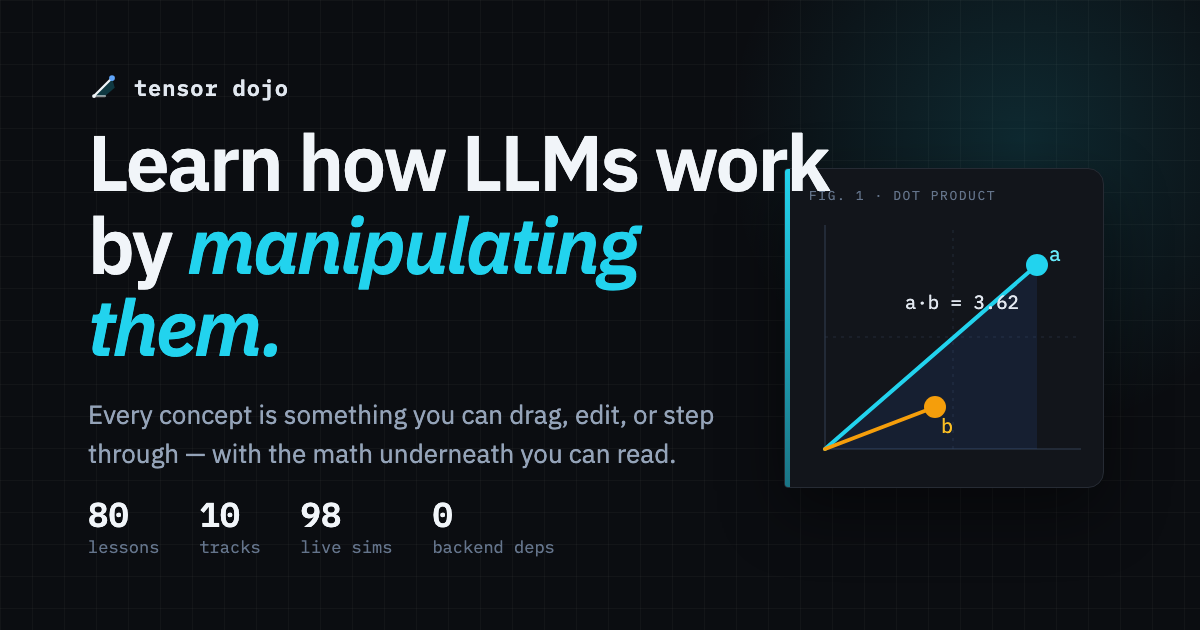
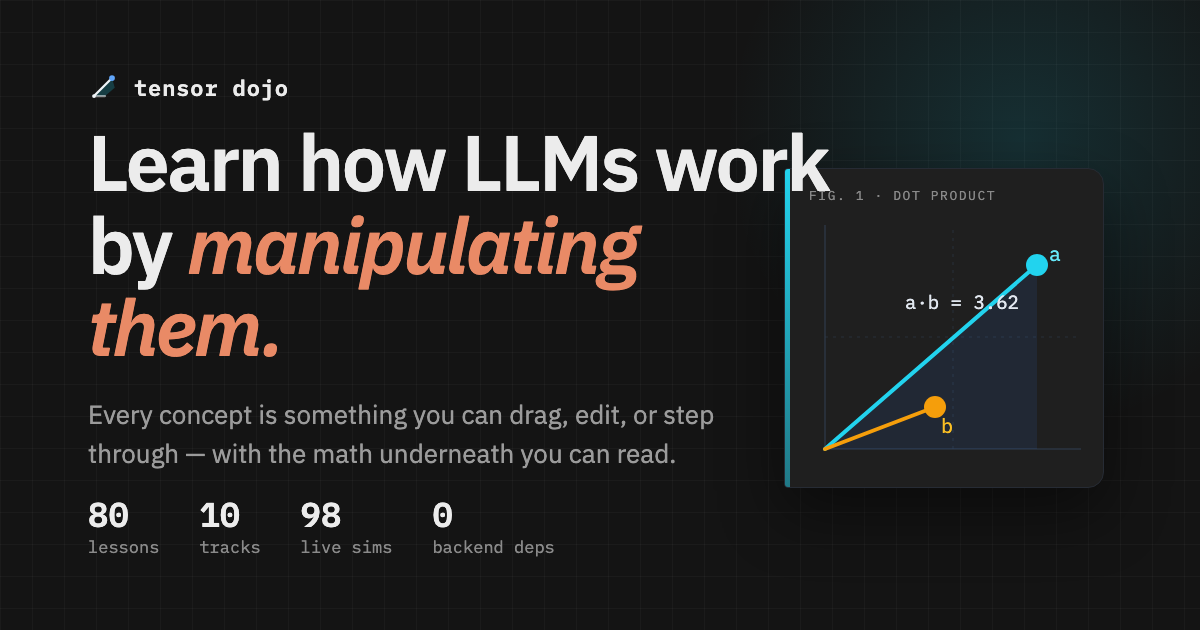
feat(theme): coral-on-charcoal palette from reference, eye-strain passes
- dark face: #141414 charcoal canvas, #1f1f1f/#2e2e2e panels, #ececec
  soft-white text, grey chrome, coral #e98a66 as the single signal
  accent (vectors, lives, tabs, CTAs, progress, links)
- light face: warm paper #f7f4f0 with terracotta #b0542e signal so
  small text and fills keep >=4.5:1 without glare
- theme-color metas synced (#141414 / #f7f4f0); OG card regenerated
  in charcoal + coral
- eye strain: 18px/1.75 prose capped at 68ch, --fg-subtle lifted past
  4.5:1 on both faces, color-scheme per root, hero auto-cycle gains a
  stop/resume toggle (hidden under reduced motion)
- print stylesheet: chrome/nav/canvas hidden, black-on-paper prose,
  cards and figures kept unsplit; share cluster + complete bar no-print
- e2e: directory filter persists to ?status= and hydrates on load

diff --git a/artifacts/tensor-dojo/src/index.css b/artifacts/tensor-dojo/src/index.css
@@ -40,6 +40,7 @@
    =========================================================================== */
 
 :root {
+  color-scheme: light;
   /* Typefaces — Plex Sans for prose/display, Plex Mono for every
      label, readout, and figure number. Display is sans-semibold
      tight-tracked (the instrument voice replaced the serif). */
@@ -53,27 +54,27 @@
 
   /* Surface tiers: canvas → raised (cards) → sunken (wells, inputs)
      → overlay (menus, toasts). */
-  --bg: 245 245 244;              /* manual paper (stone-100) */
-  --bg-elevated: 252 252 251;     /* raised card */
-  --bg-code: 231 229 228;         /* sunken well */
-  --overlay: 255 255 255;
+  --bg: 247 244 240;              /* warm paper manual face */
+  --bg-elevated: 252 250 247;     /* raised card */
+  --bg-code: 238 234 229;         /* sunken well */
+  --overlay: 255 253 250;
 
-  --fg: 23 23 23;
-  --fg-prose: 41 41 41;
-  --fg-muted: 82 82 82;
-  --fg-subtle: 115 115 115;
+  --fg: 42 38 35;                 /* warm charcoal, never pure black */
+  --fg-prose: 62 57 53;
+  --fg-muted: 100 95 90;
+  --fg-subtle: 112 106 100;      /* >=4.5:1 for 10-11px mono labels */
 
-  --border: 214 214 214;
-  --border-strong: 168 168 168;
+  --border: 222 216 209;
+  --border-strong: 186 178 169;
 
-  --accent: 23 23 23;             /* the ink itself; ~15:1 on --bg */
-  --accent-hover: 64 64 64;       /* neutral lift on hover */
-  --accent-fg: 245 245 244;       /* paper on ink fills */
-  --accent-2: 23 23 23;           /* same mono voice for nav/progress */
-  --accent-2-hover: 64 64 64;
-  --accent-2-fg: 245 245 244;     /* paper on ink fills */
+  --accent: 176 84 46;            /* terracotta signal; ~5:1 on --bg */
+  --accent-hover: 150 68 36;      /* deeper terracotta on hover */
+  --accent-fg: 255 251 247;       /* paper on terracotta fills */
+  --accent-2: 176 84 46;          /* same voice for nav/progress */
+  --accent-2-hover: 150 68 36;
+  --accent-2-fg: 255 251 247;     /* paper on terracotta fills */
 
-  --grid: 228 228 227;
+  --grid: 232 227 220;
   --positive: 21 128 61;
   --negative: 185 28 28;
   --warning: 180 83 9;
@@ -83,14 +84,14 @@
   --series-3: 124 58 237;
   --series-4: 190 24 93;          /* pink-600 — clear of cyan + blue */
 
-  --accent-soft: rgba(23, 23, 23, 0.10);
-  --accent-faint: rgba(23, 23, 23, 0.06);
-  --accent-dim: rgba(23, 23, 23, 0.35);
-  --accent-2-soft: rgba(23, 23, 23, 0.10);
-  --accent-2-faint: rgba(23, 23, 23, 0.06);
+  --accent-soft: rgba(176, 84, 46, 0.10);
+  --accent-faint: rgba(176, 84, 46, 0.06);
+  --accent-dim: rgba(176, 84, 46, 0.35);
+  --accent-2-soft: rgba(176, 84, 46, 0.10);
+  --accent-2-faint: rgba(176, 84, 46, 0.06);
 
-  --bg-elevated-hover: 245 245 244;
-  --accent-shadow: rgba(23, 23, 23, 0.20);
+  --bg-elevated-hover: 245 241 236;
+  --accent-shadow: rgba(176, 84, 46, 0.20);
 
   --negative-bg: rgba(185, 28, 28, 0.7);
   --shadow-inset: inset 0 1px 0 rgba(255, 255, 255, 0.7);
@@ -103,7 +104,7 @@
     0 2px 4px rgba(23, 23, 23, 0.10),
     0 8px 24px rgba(23, 23, 23, 0.14);
 
-  --cell-halo: 245 245 244;
+  --cell-halo: 252 250 247;
 
   /* Categorical track palette (concept map columns, cross-track arcs,
      legend dots). Ten hues tuned per theme: saturated-enough to tell
@@ -127,35 +128,36 @@
   --dur-slow: 480ms;
 
   /* Code blocks invert: a bench screen inside the manual. */
-  --code-block-bg: 11 13 17;
-  --code-block-fg: 226 232 240;
-  --code-block-border: 38 43 52;
+  --code-block-bg: 26 24 22;
+  --code-block-fg: 236 230 224;
+  --code-block-border: 52 48 44;
 }
 
 :root.dark {
+  color-scheme: dark;
   /* The bench: near-black blue ink, hairline drafting grid, paper
      mono signal for anything you can move or have completed. */
-  --bg: 11 13 17;
-  --bg-elevated: 18 21 27;
-  --bg-code: 6 8 10;
-  --overlay: 26 30 38;
+  --bg: 20 20 20;                 /* reference charcoal */
+  --bg-elevated: 31 31 31;
+  --bg-code: 16 16 16;
+  --overlay: 46 46 46;
 
-  --fg: 232 235 238;
-  --fg-prose: 205 210 216;
-  --fg-muted: 154 161 170;
-  --fg-subtle: 120 127 136;
+  --fg: 236 236 236;              /* soft white, never pure white */
+  --fg-prose: 214 214 214;
+  --fg-muted: 155 155 155;
+  --fg-subtle: 138 138 138;      /* >=4.5:1 for 10-11px mono labels */
 
-  --border: 38 43 52;
-  --border-strong: 62 69 80;
+  --border: 45 45 45;
+  --border-strong: 72 72 72;
 
-  --accent: 245 245 244;          /* paper on the bench; ~15:1 on --bg */
-  --accent-hover: 212 212 212;    /* neutral dip on hover */
-  --accent-fg: 11 13 17;          /* ink on paper fills */
-  --accent-2: 245 245 244;        /* same mono voice for nav/progress */
-  --accent-2-hover: 212 212 212;
-  --accent-2-fg: 11 13 17;        /* ink on paper fills */
+  --accent: 233 138 102;          /* coral signal; ~6:1 on --bg */
+  --accent-hover: 240 163 130;    /* lighter coral on hover */
+  --accent-fg: 24 20 18;          /* charcoal on coral fills */
+  --accent-2: 233 138 102;        /* same voice for nav/progress */
+  --accent-2-hover: 240 163 130;
+  --accent-2-fg: 24 20 18;        /* charcoal on coral fills */
 
-  --grid: 30 34 42;
+  --grid: 32 32 32;
   --positive: 74 222 128;
   --negative: 248 113 113;
   --warning: 251 191 36;
@@ -165,14 +167,14 @@
   --series-3: 167 139 250;
   --series-4: 244 114 182;
 
-  --accent-soft: rgba(245, 245, 244, 0.14);
-  --accent-faint: rgba(245, 245, 244, 0.08);
-  --accent-dim: rgba(245, 245, 244, 0.32);
-  --accent-2-soft: rgba(245, 245, 244, 0.14);
-  --accent-2-faint: rgba(245, 245, 244, 0.08);
+  --accent-soft: rgba(233, 138, 102, 0.14);
+  --accent-faint: rgba(233, 138, 102, 0.08);
+  --accent-dim: rgba(233, 138, 102, 0.40);
+  --accent-2-soft: rgba(233, 138, 102, 0.14);
+  --accent-2-faint: rgba(233, 138, 102, 0.08);
 
-  --bg-elevated-hover: 24 28 35;
-  --accent-shadow: rgba(245, 245, 244, 0.18);
+  --bg-elevated-hover: 38 38 38;
+  --accent-shadow: rgba(233, 138, 102, 0.18);
 
   --negative-bg: rgba(248, 113, 113, 0.7);
   --shadow-inset: inset 0 1px 0 rgba(255, 255, 255, 0.04);
@@ -184,7 +186,7 @@
     0 2px 4px rgba(0, 0, 0, 0.5),
     0 8px 24px rgba(0, 0, 0, 0.6);
 
-  --cell-halo: 11 13 17;
+  --cell-halo: 20 20 20;
 
   --track-1: 129 140 248;  /* indigo-400 */
   --track-2: 56 189 248;   /* sky-400 */
@@ -202,9 +204,9 @@
   --dur-base: 240ms;
   --dur-slow: 480ms;
 
-  --code-block-bg: 6 8 10;
-  --code-block-fg: 226 232 240;
-  --code-block-border: 38 43 52;
+  --code-block-bg: 14 14 14;
+  --code-block-fg: 232 226 220;
+  --code-block-border: 44 44 44;
 }
 
 /* Sticky header is two tiers on lesson routes (~84px). In-page anchors
@@ -529,8 +531,11 @@ html {
    =========================================================================== */
 .lesson-body {
   color: rgb(var(--fg-prose));
-  font-size: 1.0625rem;
-  line-height: 1.7;
+  /* Eye-strain budget: ~18px type, 1.75 leading, and a 68ch measure so
+     long lessons never stretch the eye across the column. */
+  font-size: 1.125rem;
+  line-height: 1.75;
+  max-width: 68ch;
 }
 .lesson-body > * + * {
   margin-top: 1.25rem;
@@ -1015,5 +1020,45 @@ details[open] > .summary-marker::before {
 @media (prefers-reduced-motion: reduce) {
   html {
     scroll-behavior: auto;
+  }
+}
+
+/* ===========================================================================
+   Print: the manual face on paper — prose and figures only, no chrome.
+   =========================================================================== */
+@media print {
+  header,
+  footer,
+  nav,
+  [role='application'],
+  .no-print {
+    display: none !important;
+  }
+  html,
+  body {
+    background: #fff !important;
+  }
+  * {
+    color: #000 !important;
+    box-shadow: none !important;
+    text-shadow: none !important;
+  }
+  main {
+    max-width: 100% !important;
+    padding: 0 !important;
+  }
+  .lesson-body {
+    font-size: 12pt;
+    line-height: 1.6;
+  }
+  .lesson-body a {
+    border-bottom: none;
+    text-decoration: underline;
+  }
+  /* Keep cards and figures from splitting across pages. */
+  li,
+  figure,
+  .bezel {
+    break-inside: avoid;
   }
 }

diff --git a/artifacts/tensor-dojo/src/components/home/HeroInteractive.tsx b/artifacts/tensor-dojo/src/components/home/HeroInteractive.tsx
@@ -79,12 +79,22 @@ const ROTATE_MS = 9000;
  */
 export function HeroInteractive() {
   const [index, setIndex] = useState(0);
-  // Reduced-motion readers get a static figure: the rotator never starts.
-  const [pinned, setPinned] = useState(() => {
+  // Reduced-motion readers get a static figure: the rotator never
+  // starts and the cycle toggle stays hidden.
+  const [reduced] = useState(() => {
     if (typeof window === 'undefined' || typeof window.matchMedia !== 'function') return false;
     return window.matchMedia('(prefers-reduced-motion: reduce)').matches;
   });
+  const [pinned, setPinned] = useState(reduced);
   const pinnedRef = useRef(pinned);
+
+  // Eyes get a rest button: stop/resume the auto-cycle without having
+  // to interact with the figure itself.
+  const toggleCycle = useCallback(() => {
+    const next = !pinnedRef.current;
+    pinnedRef.current = next;
+    setPinned(next);
+  }, []);
 
   const pin = useCallback(() => {
     if (!pinnedRef.current) {
@@ -154,13 +164,17 @@ export function HeroInteractive() {
             {f.tab}
           </button>
         ))}
-        {!pinned && (
-          <span
-            aria-hidden="true"
-            className="ml-auto hidden sm:block text-[10px] font-mono text-fg-subtle"
+        {!reduced && (
+          <button
+            type="button"
+            onClick={toggleCycle}
+            aria-pressed={pinned}
+            title={pinned ? 'Resume the figure rotation' : 'Stop the figure rotation'}
+            className="focus-ring ml-auto hidden sm:inline-flex items-baseline gap-1.5 text-[10px] font-mono text-fg-subtle transition-colors hover:text-ink"
           >
-            {pinned ? 'paused — yours to drag' : 'auto-cycling'}
-          </span>
+            <span aria-hidden="true">{pinned ? '▶' : '❚❚'}</span>
+            {pinned ? 'resume cycling' : 'stop cycling'}
+          </button>
         )}
       </div>
 

diff --git a/e2e/core.spec.ts b/e2e/core.spec.ts
@@ -68,3 +68,18 @@ test('activation lesson loads the assessment and feedback loop', async ({ page }
   await page.reload();
   await expect(page.getByText(/Mastered · 1 attempt/i)).toBeVisible();
 });
+
+test('lessons directory filter persists to the url and back', async ({ page }) => {
+  await page.goto('/lessons');
+  await page.getByRole('button', { name: /^Complete/ }).click();
+  await expect(page).toHaveURL(/status=done/);
+  await expect(page.getByText(/No lessons match this filter yet/)).toBeVisible();
+
+  await page.getByRole('button', { name: 'Show all lessons' }).click();
+  await expect(page).not.toHaveURL(/status=/);
+  await expect(page.getByRole('heading', { name: 'Foundations of similarity' })).toBeVisible();
+
+  // A filtered url hydrates the same view on a fresh load.
+  await page.goto('/lessons?status=new');
+  await expect(page.getByRole('button', { name: /^Not started/ })).toHaveAttribute('aria-pressed', 'true');
+});

diff --git a/artifacts/tensor-dojo/index.html b/artifacts/tensor-dojo/index.html
@@ -20,7 +20,7 @@
     <meta name="twitter:image" content="https://tensordojo.vercel.app/og.png" />
     <!-- Single tag; the bootstrap script below (and use-theme on
          toggle) keeps it in sync with the *app* theme, not the OS. -->
-    <meta name="theme-color" content="#0b0d11" />
+    <meta name="theme-color" content="#141414" />
     <link rel="icon" type="image/svg+xml" href="/favicon.svg" />
     <link rel="preconnect" href="https://fonts.googleapis.com" />
     <link rel="preconnect" href="https://fonts.gstatic.com" crossorigin="" />
@@ -39,7 +39,7 @@
       : ls ? ls === 'dark' : (sysKnown ? mq.matches : true);
     if (dark) document.documentElement.classList.add('dark');
     var tc = document.querySelector('meta[name="theme-color"]');
-    if (tc) tc.setAttribute('content', dark ? '#0b0d11' : '#f5f5f4');
+    if (tc) tc.setAttribute('content', dark ? '#141414' : '#f7f4f0');
   } catch (e) {}
 })();
     </script>

diff --git a/artifacts/tensor-dojo/src/components/lesson/LessonShell.tsx b/artifacts/tensor-dojo/src/components/lesson/LessonShell.tsx
@@ -100,7 +100,7 @@ export function LessonShell({
             360px row, so below sm the group stacks and the divider
             flips axis; no overflow-hidden, so focus rings stay
             visible. */}
-        <div className="mt-5 flex w-full sm:w-auto flex-col sm:flex-row items-stretch divide-y sm:divide-y-0 sm:divide-x divide-border border border-border rounded-sm bg-bg-elevated">
+        <div className="no-print mt-5 flex w-full sm:w-auto flex-col sm:flex-row items-stretch divide-y sm:divide-y-0 sm:divide-x divide-border border border-border rounded-sm bg-bg-elevated">
           <button
             type="button"
             onClick={copyLessonLink}

diff --git a/artifacts/tensor-dojo/src/components/lesson/LessonCompleteBar.tsx b/artifacts/tensor-dojo/src/components/lesson/LessonCompleteBar.tsx
@@ -56,7 +56,7 @@ export function LessonCompleteBar({ slug }: LessonCompleteBarProps) {
 
   if (!done) {
     return (
-      <div className="mt-12 flex flex-wrap items-center justify-between gap-4 rounded-lg border border-dashed border-border-strong px-5 py-4">
+      <div className="no-print mt-12 flex flex-wrap items-center justify-between gap-4 rounded-lg border border-dashed border-border-strong px-5 py-4">
         <p className="text-[13px] text-fg-muted">
           Finished this one? Mark it complete to track your way through the
           curriculum.

diff --git a/artifacts/tensor-dojo/src/lib/theme/use-theme.ts b/artifacts/tensor-dojo/src/lib/theme/use-theme.ts
@@ -59,7 +59,7 @@ function applyTheme(next: Theme): void {
   // Browser chrome / overscroll should follow the app theme, not the
   // OS preference the meta tag was born with.
   const tc = document.querySelector('meta[name="theme-color"]');
-  if (tc) tc.setAttribute('content', next === 'dark' ? '#0b0d11' : '#f5f5f4');
+  if (tc) tc.setAttribute('content', next === 'dark' ? '#141414' : '#f7f4f0');
   // Two RAFs: the first lets the class change paint, the second
   // lets the browser apply the new token values; only then do we
   // re-enable transitions.

diff --git a/README.md b/README.md
@@ -357,8 +357,8 @@ config as `rgb(var(--token) / <alpha-value>)`. Existing classes
 without per-component overrides.
 
 **One mono signal, strict jobs.** The design ("scientific instrument")
-runs a single accent voice that inverts with the face: ink on the paper
-manual, paper on the dark bench. `--accent` marks what the reader can
+runs a single accent voice that inverts with the face: terracotta on the warm paper
+manual, coral on the charcoal bench. `--accent` marks what the reader can
 *move* — sliders, knobs, draggable tips, live readouts; `--accent-2`
 (same value, kept as a separate token so the split stays auditable)
 marks *navigation and progress* — links, resume, progress bars, belts.
